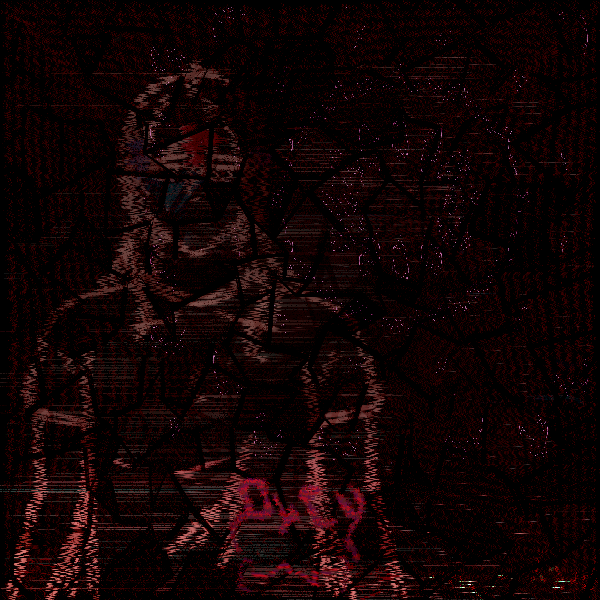
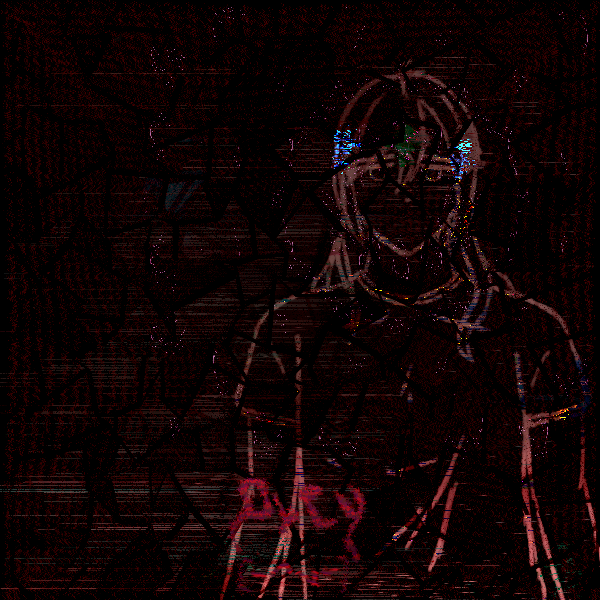
Font change, BG updates & Jacket edits

diff --git a/crimazurewitch/rev.css b/crimazurewitch/rev.css
@@ -1,4 +1,4 @@
-@font-face { font-family: Monaco; src: url('monaco.ttf'); }
+@font-face { font-family: DotGothic16; src: url('DotGothic16.ttf'); }
 
 body {
     background-image: url("img/bg.png");
@@ -7,23 +7,25 @@ body {
 p {
     color: whitesmoke;
     text-align: center;
-    font-family: 'Monaco', monospace;
+    font-family: 'DotGothic16', monospace;
     font-size: 175%;
 }
 
 .rev {
     color: whitesmoke;
     text-align: center;
-    font-family: 'Monaco', monospace; 
-    top: 30%;
-    transition: top 1s;
-}
-
-.rev:hover {
-    opacity: 1;
+    font-family: 'DotGothic16', monospace; 
     top: 40%;
+    opacity: 1;
+    animation-name: drop;
+    animation-duration: 1.5s;
 }
 
 .songinfo {
     font-size: 200%;
+}
+
+@keyframes drop {
+    from {top:30%;opacity: 0;}
+    to {top:40%;opacity: 1;}
 }

diff --git a/crimazurewitch/rev-a.css b/crimazurewitch/rev-a.css
@@ -1,0 +1,31 @@
+@font-face { font-family: DotGothic16; src: url('DotGothic16.ttf'); }
+
+body {
+    background-image: url("img/bg-a.png");
+}
+
+p {
+    color: whitesmoke;
+    text-align: center;
+    font-family: 'DotGothic16';
+    font-size: 175%;
+}
+
+.rev {
+    color: whitesmoke;
+    text-align: center;
+    font-family: 'DotGothic16'; 
+    top: 40%;
+    opacity: 1;
+    animation-name: drop;
+    animation-duration: 1.5s;
+}
+
+.songinfo {
+    font-size: 200%;
+}
+
+@keyframes drop {
+    from {top:30%;opacity: 0;}
+    to {top:40%;opacity: 1;}
+}

diff --git a/crimazurewitch/rev-s.css b/crimazurewitch/rev-s.css
@@ -1,0 +1,31 @@
+@font-face { font-family: DotGothic16; src: url('DotGothic16.ttf'); }
+
+body {
+    background-image: url("img/bg-s.png");
+}
+
+p {
+    color: whitesmoke;
+    text-align: center;
+    font-family: 'DotGothic16';
+    font-size: 175%;
+}
+
+.rev {
+    color: whitesmoke;
+    text-align: center;
+    font-family: 'DotGothic16'; 
+    top: 40%;
+    opacity: 1;
+    animation-name: drop;
+    animation-duration: 1.5s;
+}
+
+.songinfo {
+    font-size: 200%;
+}
+
+@keyframes drop {
+    from {top:30%;opacity: 0;}
+    to {top:40%;opacity: 1;}
+}

diff --git a/crimazurewitch/azure.css b/crimazurewitch/azure.css
@@ -1,4 +1,4 @@
-@font-face { font-family: Monaco; src: url('monaco.ttf'); }
+@font-face { font-family: DotGothic16; src: url('DotGothic16.ttf'); }
 
 body {
     background-image: url("img/bg-a.png");
@@ -8,14 +8,14 @@ body {
 p {
     color: whitesmoke;
     text-align: center;
-    font-family: 'Monaco', monospace;
+    font-family: 'DotGothic16';
     font-size: 200%;
 }
 
 .spoil {
     color: black;
     background-color: black;
-    font-family: 'Monaco', monospace; 
+    font-family: 'DotGothic16'; 
 }
 
 .spoil:hover {

diff --git a/crimazurewitch/al.css b/crimazurewitch/al.css
@@ -1,4 +1,4 @@
-@font-face { font-family: Monaco; src: url('monaco.ttf'); }
+@font-face { font-family: DotGothic16; src: url('DotGothic16.ttf'); }
 
 body {
     background-image: url("img/bg.png");
@@ -8,14 +8,14 @@ body {
 p {
     color: whitesmoke;
     text-align: center;
-    font-family: 'Monaco', monospace;
+    font-family: 'DotGothic16';
     font-size: 200%;
 }
 
 .spoil {
     color: black;
     background-color: black;
-    font-family: 'Monaco', monospace; 
+    font-family: 'DotGothic16'; 
 }
 
 .spoil:hover {

diff --git a/crimazurewitch/end/NA-Reveal.html b/crimazurewitch/end/NA-Reveal.html
@@ -6,7 +6,7 @@
         <link rel="stylesheet" href="../rev.css">
     </head>
     <body>
-        <p class="rev" style="position: fixed; ; left:50%; transform: translate(-50%,-50%)">
+        <p class="rev" style="position: fixed; left:50%; transform: translate(-50%,-50%)">
             <a href="finale-Reveal.html"> <img src="../img/Untitled.png" style="width: 450px"> </a> <br>
             <b class="songinfo">[MISSING TITLE]</b><br>
             [MISSING ARTIST]<br>

diff --git a/crimazurewitch/end/SELF-Reveal.html b/crimazurewitch/end/SELF-Reveal.html
@@ -6,7 +6,7 @@
         <link rel="stylesheet" href="../rev.css">
     </head>
     <body>
-        <p class="rev" style="position: fixed; ; left:50%; transform: translate(-50%,-50%)">
+        <p class="rev" style="position: fixed; left:50%; transform: translate(-50%,-50%)">
             <img src="../img/SELF.png" style="width: 450px"> <br>
             <b class="songinfo">SELF</b><br>
             log()<br>

diff --git a/crimazurewitch/azure/EDR-Reveal.html b/crimazurewitch/azure/EDR-Reveal.html
@@ -3,7 +3,7 @@
     <head>
         <title> Red turns to blue. </title>
         <link rel="icon" type="image/x-icon" href="../img/finale-a.png">
-        <link rel="stylesheet" href="../rev.css">
+        <link rel="stylesheet" href="../rev-a.css">
     </head>
     <body>
         <p class="rev" style="position: fixed; left:50%; transform: translate(-50%,-50%)">

diff --git a/crimazurewitch/azure/F-Reveal.html b/crimazurewitch/azure/F-Reveal.html
@@ -3,7 +3,7 @@
     <head>
         <title> Cry of the past. </title>
         <link rel="icon" type="image/x-icon" href="../img/finale-a.png">
-        <link rel="stylesheet" href="../rev.css">
+        <link rel="stylesheet" href="../rev-a.css">
     </head>
     <body>
         <p class="rev" style="position: fixed; left:50%; transform: translate(-50%,-50%)">

diff --git a/crimazurewitch/azure/L-Reveal.html b/crimazurewitch/azure/L-Reveal.html
@@ -3,7 +3,7 @@
     <head>
         <title> Regret, Absolve. </title>
         <link rel="icon" type="image/x-icon" href="../img/finale-a.png">
-        <link rel="stylesheet" href="../rev.css">
+        <link rel="stylesheet" href="../rev-a.css">
     </head>
     <body>
         <p class="rev" style="position: fixed; left:50%; transform: translate(-50%,-50%)">

diff --git a/crimazurewitch/azure/HALL-Reveal.html b/crimazurewitch/azure/HALL-Reveal.html
@@ -3,7 +3,7 @@
     <head>
         <title> One last duel. </title>
         <link rel="icon" type="image/x-icon" href="../img/finale-a.png">
-        <link rel="stylesheet" href="../rev.css">
+        <link rel="stylesheet" href="../rev-a.css">
     </head>
     <body>
         <p class="rev" style="position: fixed; left:50%; transform: translate(-50%,-50%)">

diff --git a/crimazurewitch/end/finale-Reveal.html b/crimazurewitch/end/finale-Reveal.html
@@ -6,7 +6,7 @@
         <link rel="stylesheet" href="../rev.css">
     </head>
     <body>
-        <p style="position: fixed; ; left:50%; transform: translate(-50%,-50%)">
+        <p style="position: fixed; left:50%; transform: translate(-50%,-50%)">
             <img src="../img/Untitled.png" style="width: 450px"> <br>
         </p>
     </body>
